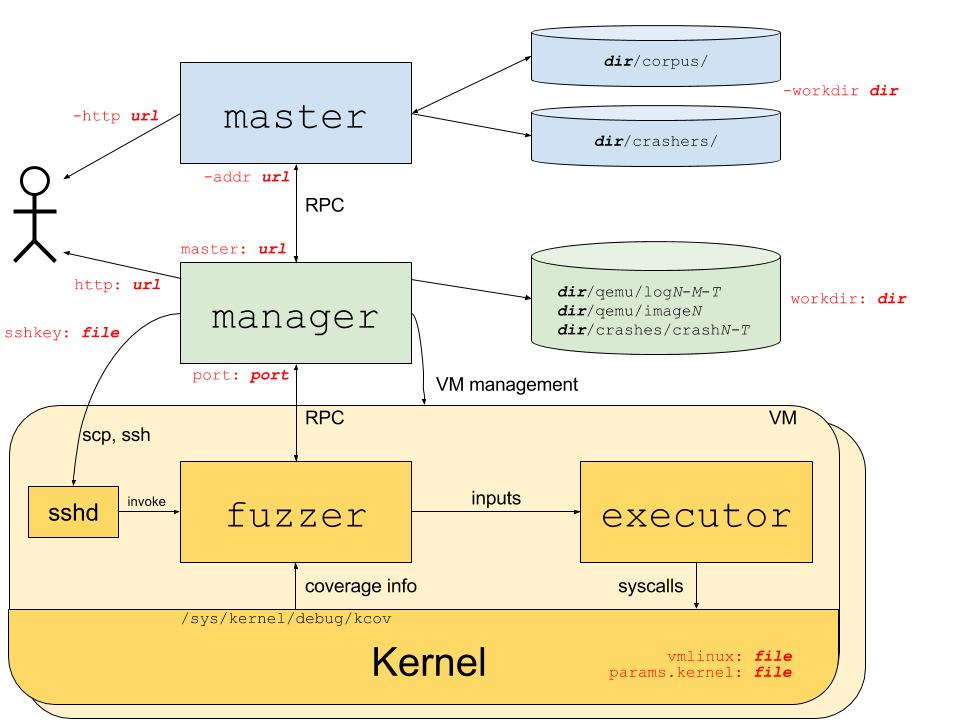
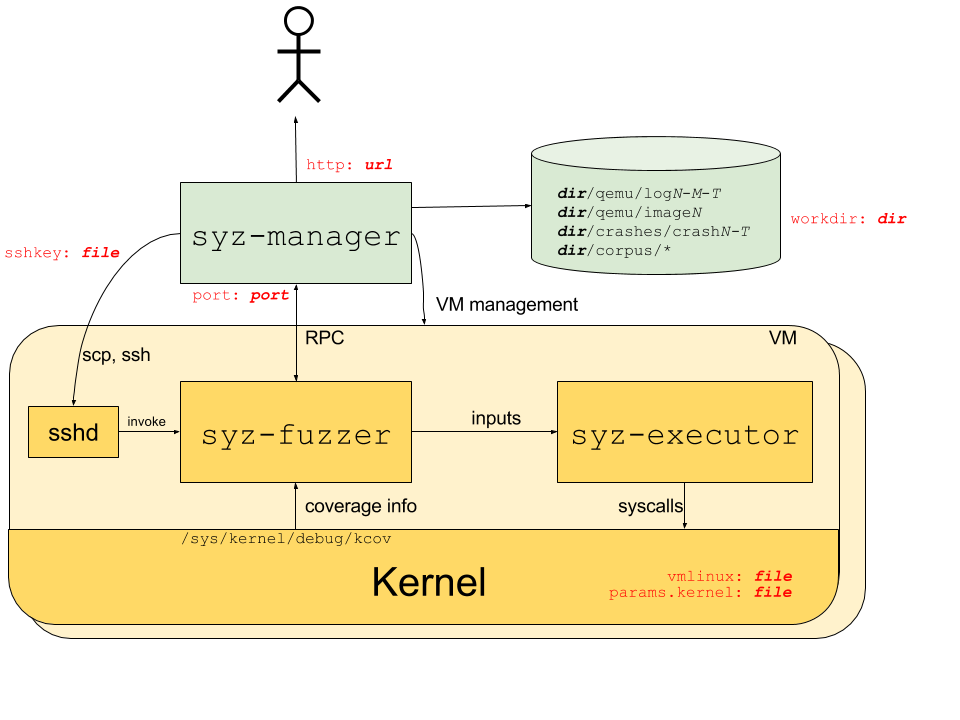
Update docs for rename and removal of master
Updated process structure diagram, fix a few mentions of
old setup in README.

diff --git a/README.md b/README.md
@@ -32,8 +32,8 @@ revision 231296. Sync past it and build fresh gcc.
 
 As well as adding coverage support to the C compiler, the Linux kernel itself needs to be modified
 to:
- - add support in the build system for the coverage options (under `CONFIG_SANCOV`)
- - add extra instrumentation on system call entry/exit (for a `CONFIG_SANCOV` build)
+ - add support in the build system for the coverage options (under `CONFIG_KCOV`)
+ - add extra instrumentation on system call entry/exit (for a `CONFIG_KCOV` build)
  - add code to track and report per-task coverage information.
 
 This is all implemented in [this coverage patch](https://github.com/dvyukov/linux/commits/kcov);
@@ -52,9 +52,9 @@ In particular:
  - The program files for the fuzzer processes are transmitted into the VM using SSH, so the VM image
    needs a running SSH server.
  - The VM's SSH configuration should be set up to allow root access for the identity that is
-   included in the `master`'s configuration.  In other words, you should be able to do `ssh -i
+   included in the `syz-manager`'s configuration.  In other words, you should be able to do `ssh -i
    $SSHID -p $PORT root@localhost` without being prompted for a password (where `SSHID` is the SSH
-   identification file and `PORT` is the port that are specified in the `manager` configuration
+   identification file and `PORT` is the port that are specified in the `syz-manager` configuration
    file).
  - The kernel exports coverage information via a debugfs entry, so the VM image needs to mount
    the debugfs filesystem at `/sys/kernel/debug`.
@@ -68,13 +68,13 @@ to build them.  Build with `make`, which generates compiled binaries in the `bin
 
 ## Configuration
 
-The operation of the syzkaller manager process is governed by a configuration file, passed at
+The operation of the syzkaller `syz-manager` process is governed by a configuration file, passed at
 invocation time with the `-config` option.  This configuration can be based on the
 [syz-manager/example.cfg](syz-manager/example.cfg); the file is in JSON format with the
 following keys in its top-level object:
 
- - `http`: URL that will display information about the running manager process.
- - `workdir`: Location of a working directory for the `manager` process. Outputs here include:
+ - `http`: URL that will display information about the running `syz-manager` process.
+ - `workdir`: Location of a working directory for the `syz-manager` process. Outputs here include:
      - `<workdir>/qemu/logN-M-T`: log files
      - `<workdir>/qemu/imageN`: per-instance copies of the VM disk image
      - `<workdir>/crashes/crashN-T`: crash output files
@@ -83,7 +83,7 @@ following keys in its top-level object:
  - `type`: Type of virtual machine to use, e.g. `qemu`.
  - `count`: Number of VMs to run in parallel.
  - `procs`: Number of parallel test processes in each VM (4 or 8 would be a reasonable number).
- - `port`: Port that the manager process listens on for communications from the
+ - `port`: Port that the `syz-manager` process listens on for communications from the
    fuzzer processes running in the VMs.
  - `leak`: Detect memory leaks with kmemleak (very slow).
  - `params`: A JSON object containing VM configuation, specific to the particular `type` of VM. For
@@ -95,8 +95,8 @@ following keys in its top-level object:
         `-hda` option to `qemu-system-x86_64`.
       - `sshkey`: Location (on the host machine) of an SSH identity to use for communicating with
         the virtual machine.
-      - `fuzzer`: Location (on the host machine) of the syzkaller `fuzzer` binary.
-      - `executor`: Location (on the host machine) of the syzkaller `executor` binary.
+      - `fuzzer`: Location (on the host machine) of the syzkaller `syz-fuzzer` binary.
+      - `executor`: Location (on the host machine) of the syzkaller `syz-executor` binary.
       - `port`: TCP port on the host machine that should be redirected to the SSH port (port 22) on
         the guest VM; this is passed as part of the `hostfwd` option to the `-net` option of
         `qemu-system-x86_64`.
@@ -110,7 +110,7 @@ following keys in its top-level object:
 
 ## Running syzkaller
 
-Start the manager process as:
+Start the `syz-manager` process as:
 ```
 ./bin/syz-manager -config my.cfg
 ```
@@ -128,9 +128,6 @@ The process structure for the syzkaller system is shown in the following diagram
 indicate corresponding configuration options.
 
 ![Process structure for syzkaller](structure.png?raw=true)
-
-The `master` process is responsible for persistent corpus and crash storage.
-It communicates with one or more `manager` processes via RPC.
 
 The `syz-manager` process starts, monitors and restarts several VM instances (support for
 physical machines is not implemented yet), and starts a `syz-fuzzer` process inside of the VMs.
